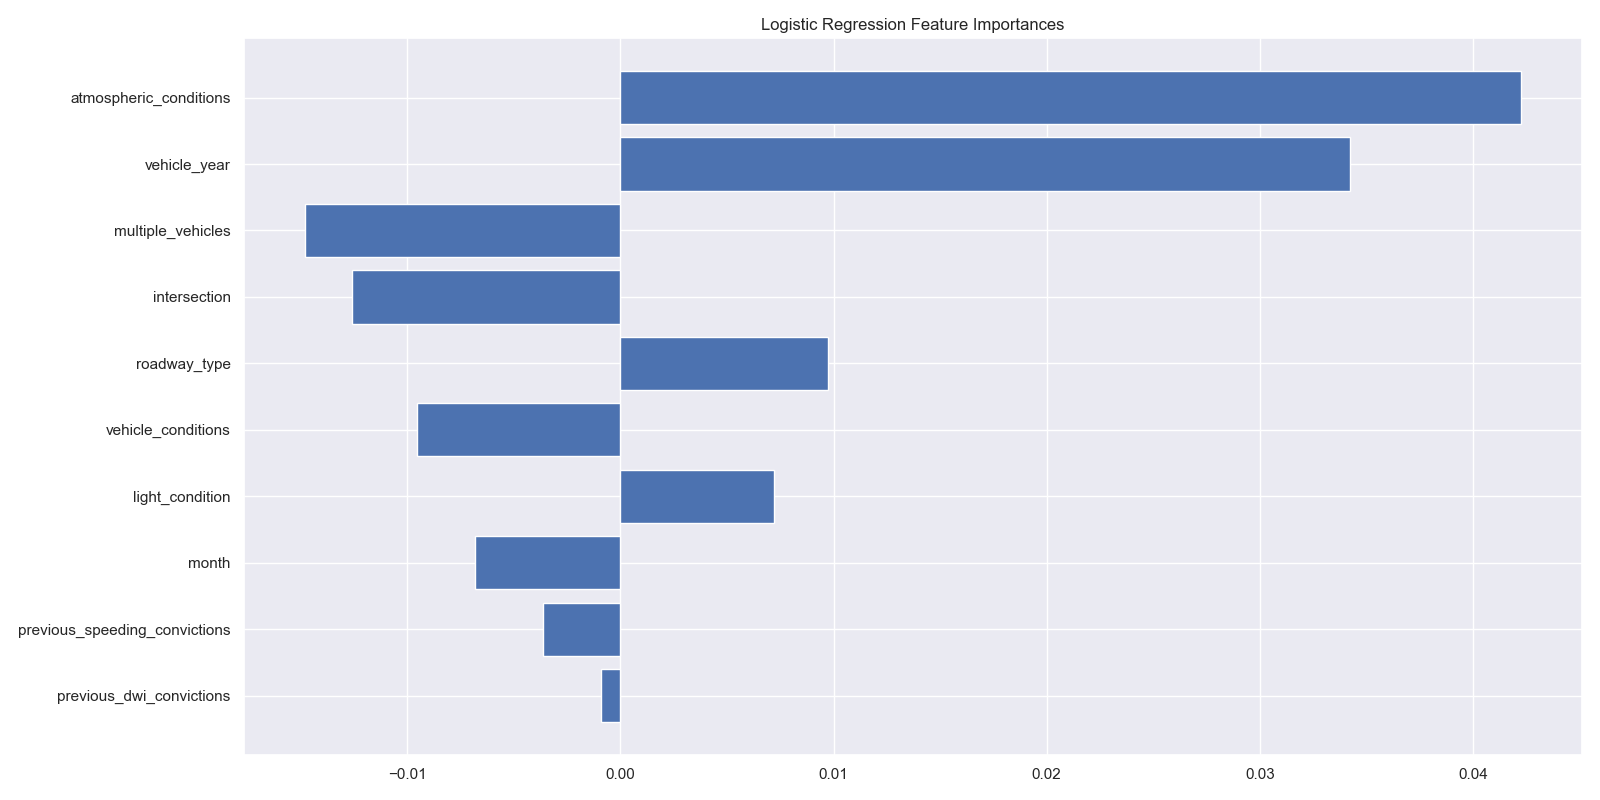
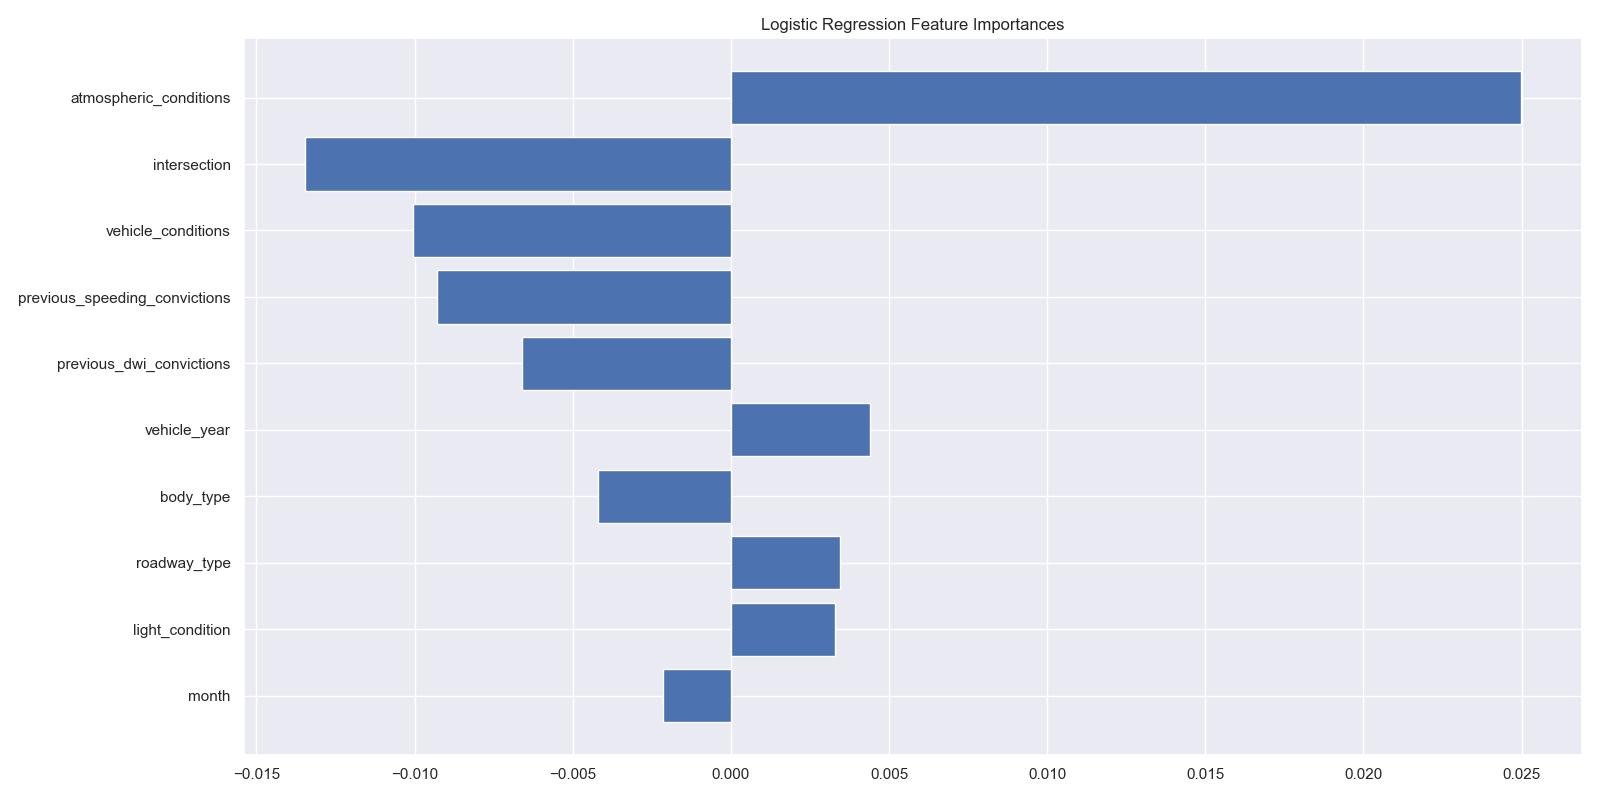
Added permutation importances for train set

diff --git a/accidents/models.py b/accidents/models.py
@@ -31,8 +31,8 @@ def main():
     oe = OrdinalEncoder()
     features = oe.fit_transform(features)
 
-    scaler = StandardScaler()
-    features = scaler.fit_transform(features)
+    # scaler = StandardScaler()
+    # features = scaler.fit_transform(features)
 
     X_train, X_test, y_train, y_test = train_test_split(features, labels,
                                                         test_size=0.2, random_state=2020)
@@ -62,7 +62,8 @@ def main():
         utils.print_metrics(y_test, y_pred)
         utils.roc_curve(y_test, y_probs, name, suffix)
         utils.feature_importance(model, feature_names, name, suffix)
-        utils.permutation_importances(model, X_test, y_test, feature_names, name, suffix)
+        utils.permutation_importances(model, X_test, y_test, feature_names, name, suffix + '_test')
+        utils.permutation_importances(model, X_train, y_train, feature_names, name, suffix + '_train')
         print('#' * 50)
 
 
